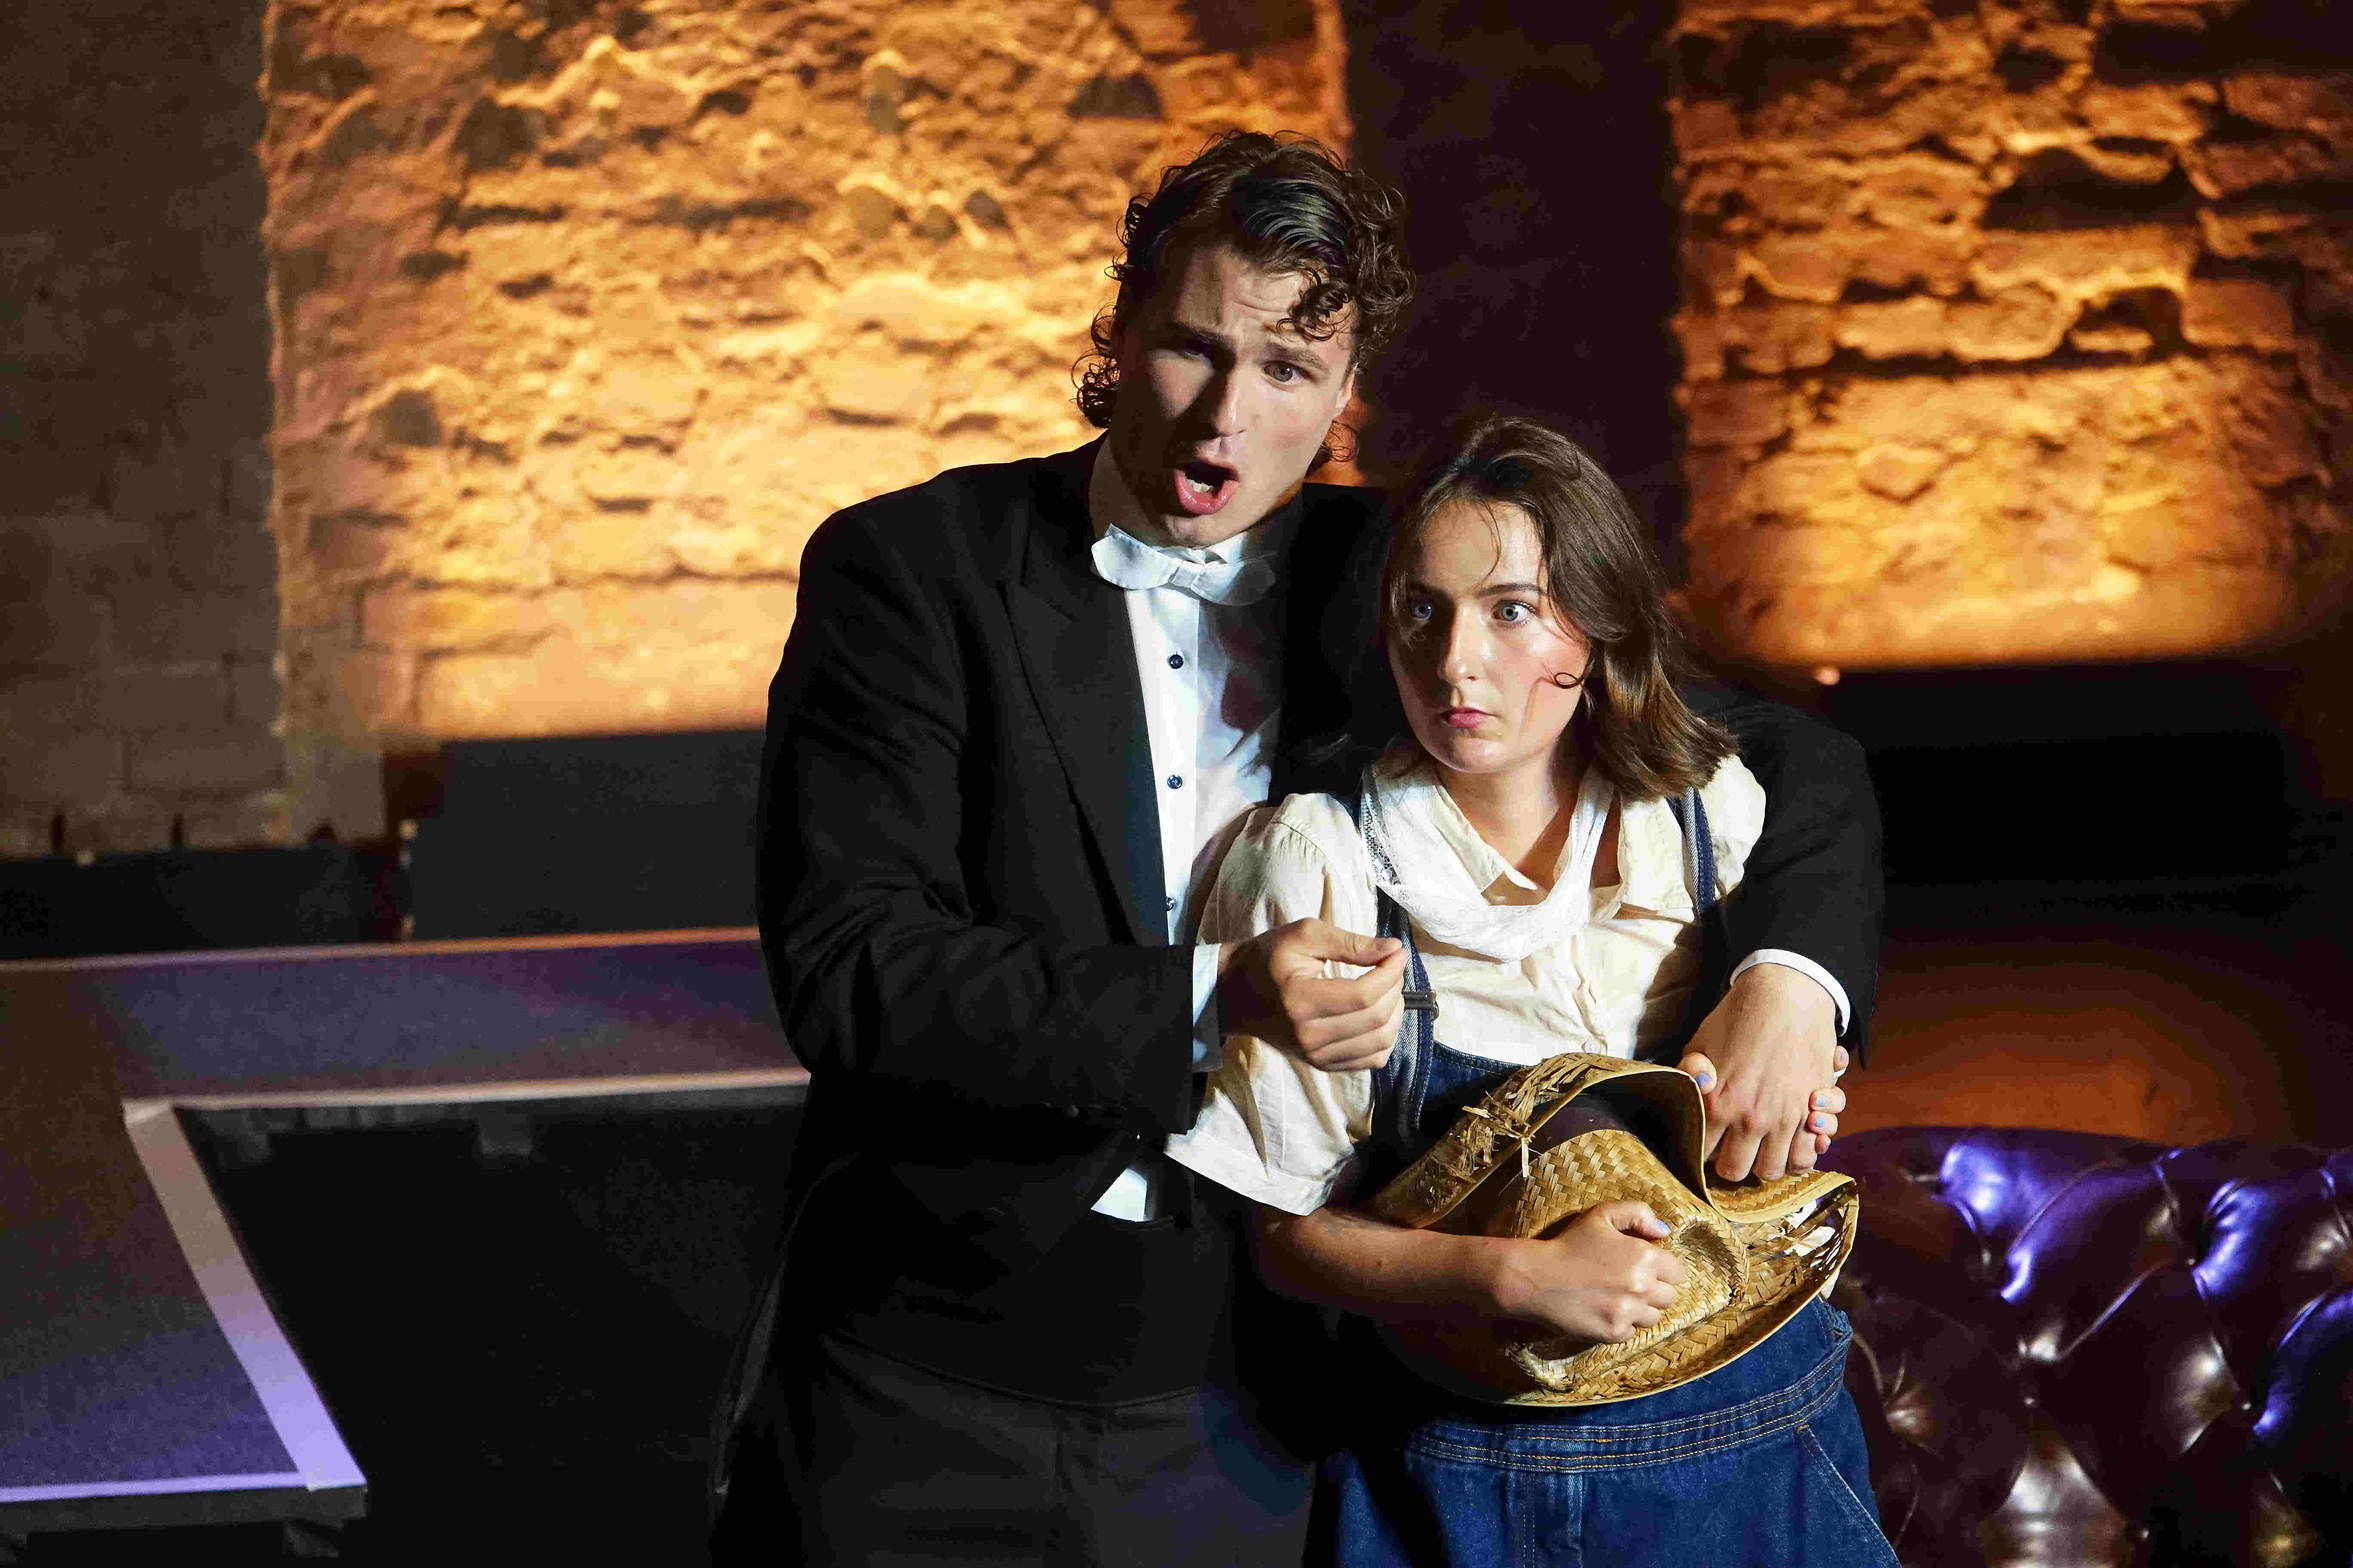
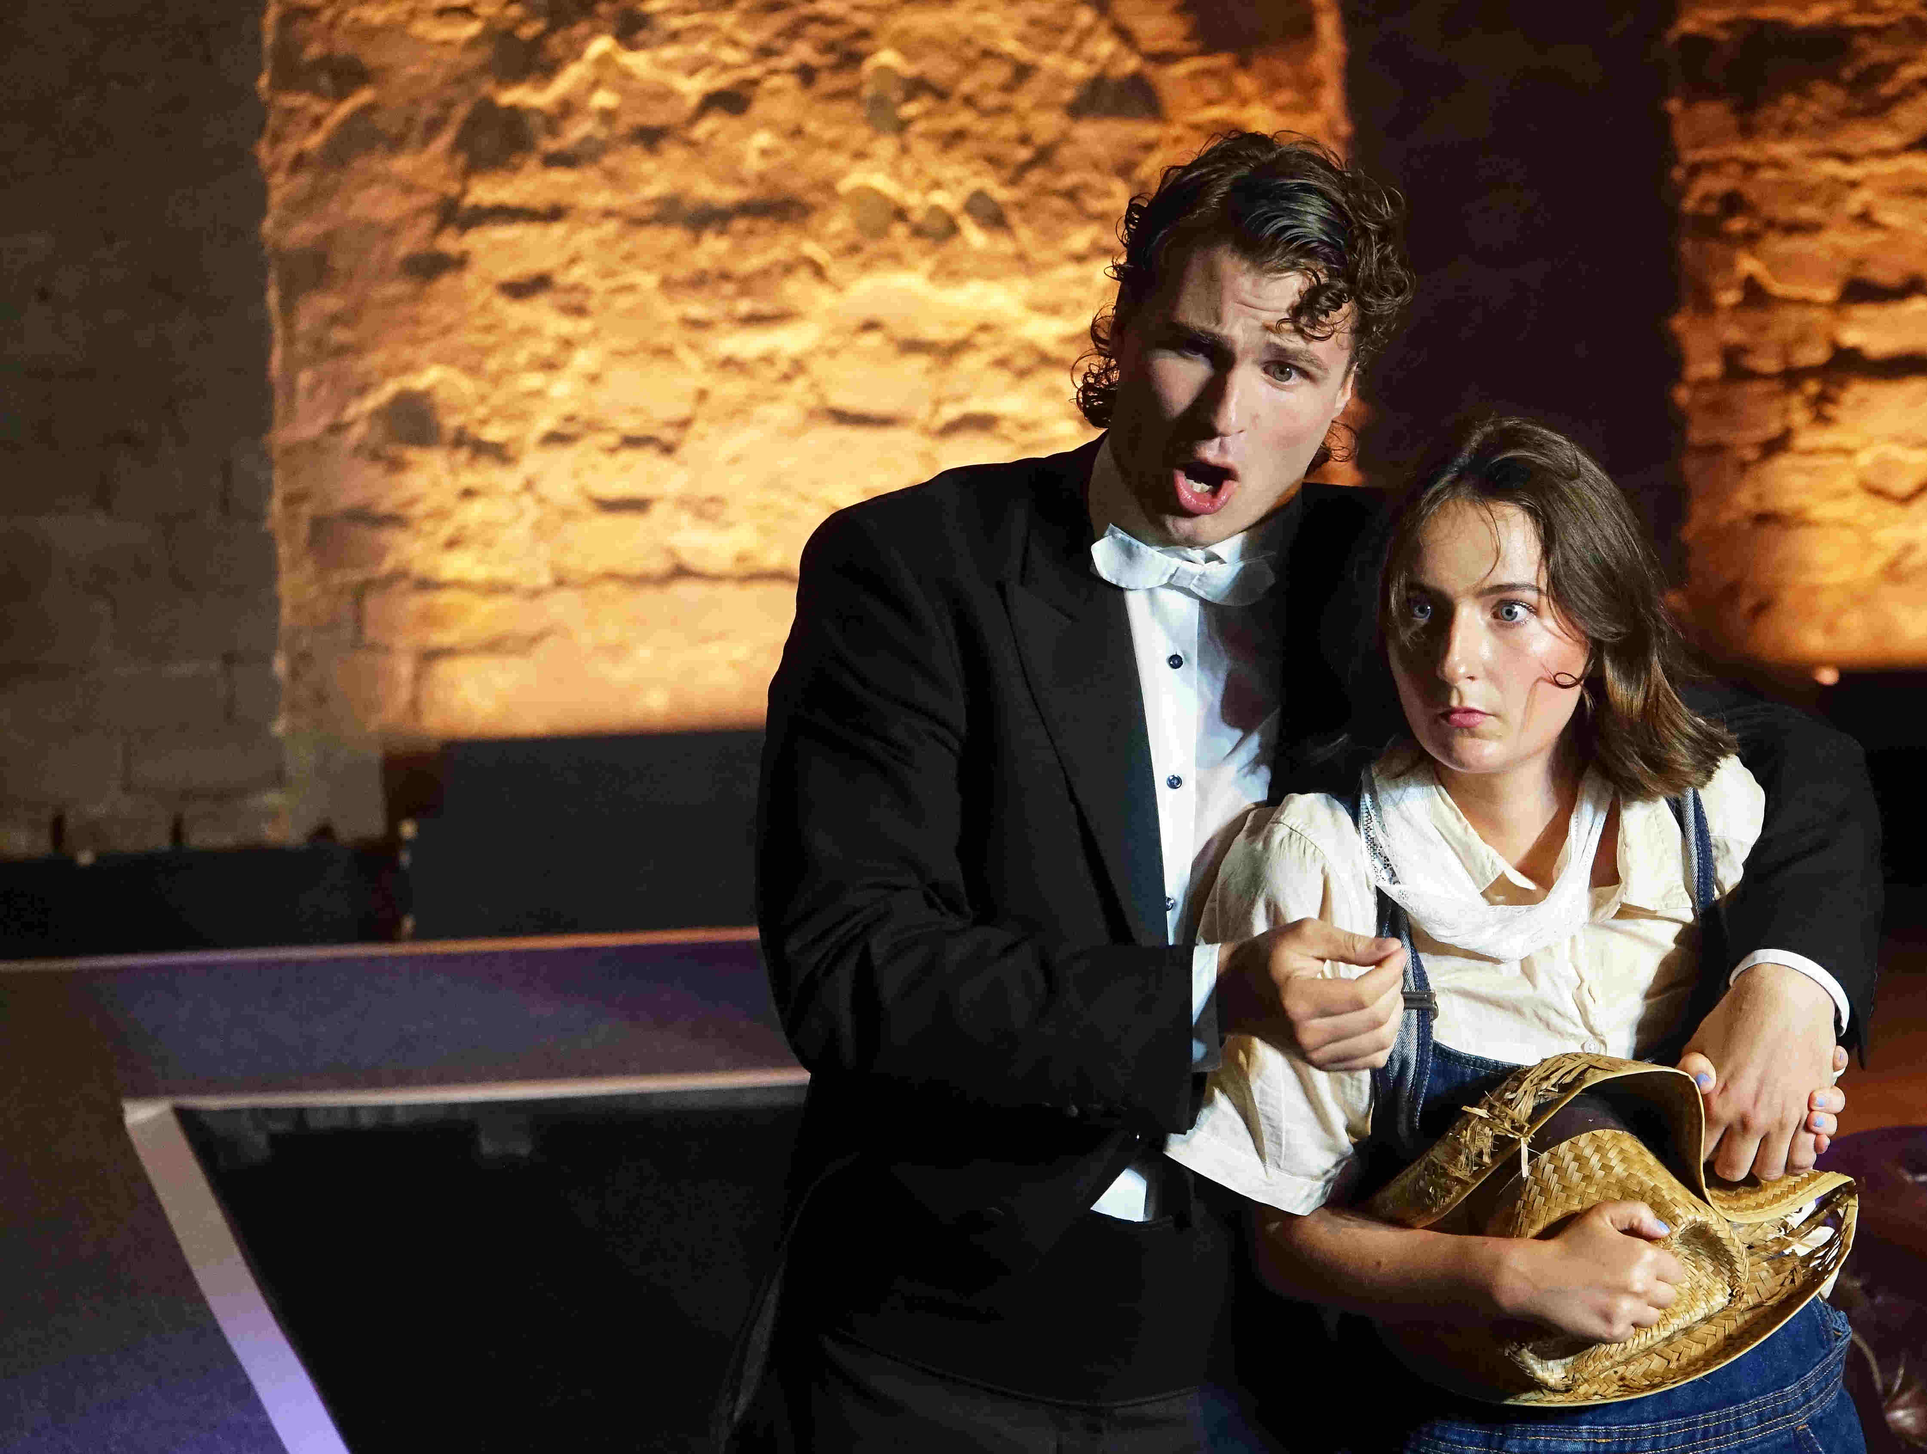
Fix summer-info styles

diff --git a/summer-singer-styles.css b/summer-singer-styles.css
@@ -1072,7 +1072,7 @@ em {
 
 #summer-info .info-wrapper {
   display: grid;
-  max-width: 600px;
+  max-width: 500px;
   grid-template-rows: 6fr 1fr;
   width: 100%;
 }
@@ -1082,11 +1082,11 @@ em {
 }
 
 #summer-info #performance-info {
-  background-image: url('media/BOA-Opernfest2024_Le-nozze-di-Figaro1-9Aug24_(c)Opernfotografie-DetlefKurth_DSC00065-flipped.jpg');
+  background-image: url('media/BOA-Opernfest2024_Le-nozze-di-Figaro1-9Aug24_(c)Opernfotografie-DetlefKurth_DSC00065-crop.jpg');
 }
 
 #summer-info #practical-info {
-  background-image: url('media/opera_study_europe_training_operasinger.jpg');
+  background-image: url('media/opera_study_europe_training_operasinger-crop.jpg');
 }
 
 /* #summer-info #practical-info::after {
@@ -1131,7 +1131,7 @@ em {
   left: 0;
   width: 100%;
   height: 100%;
-  background: linear-gradient(to right, black, transparent);
+  background: linear-gradient(to right, rgba(0, 0, 0, .7), transparent);
   pointer-events: none; 
   z-index: 1;
 }
